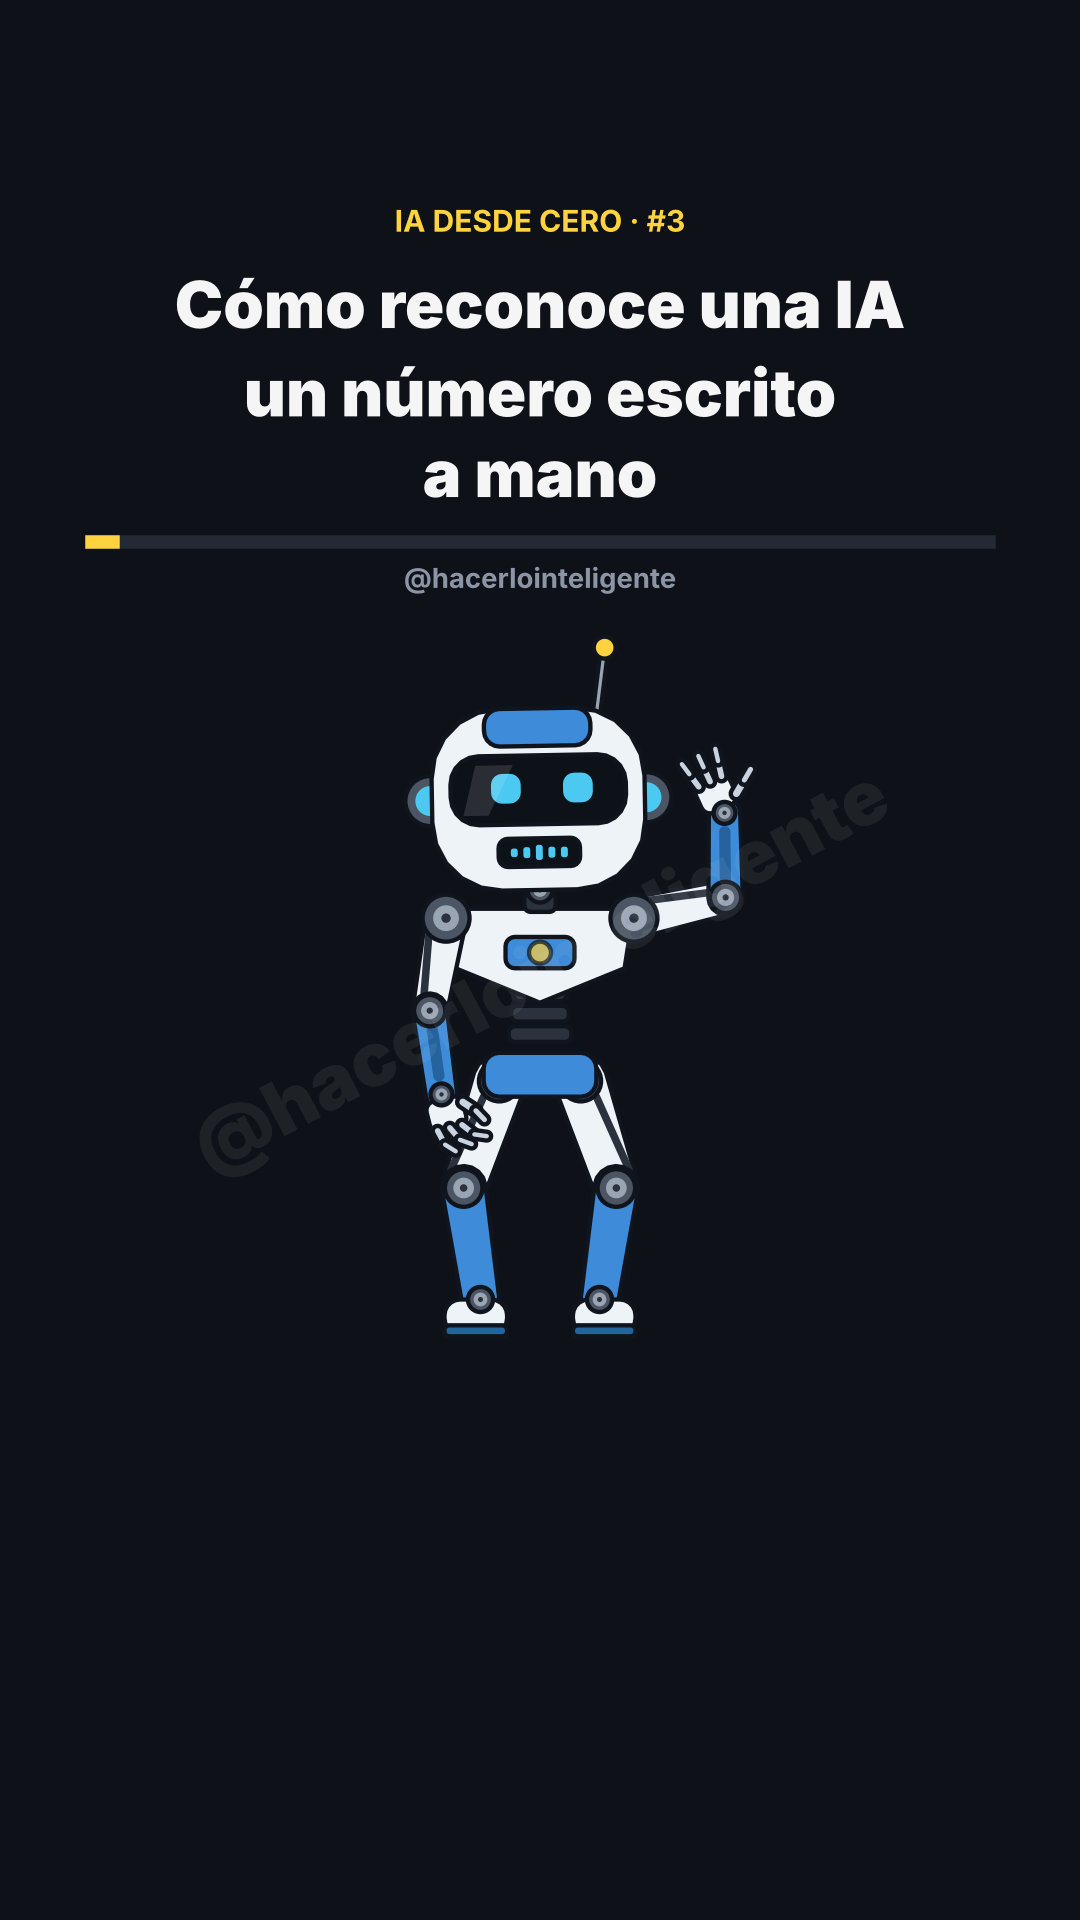
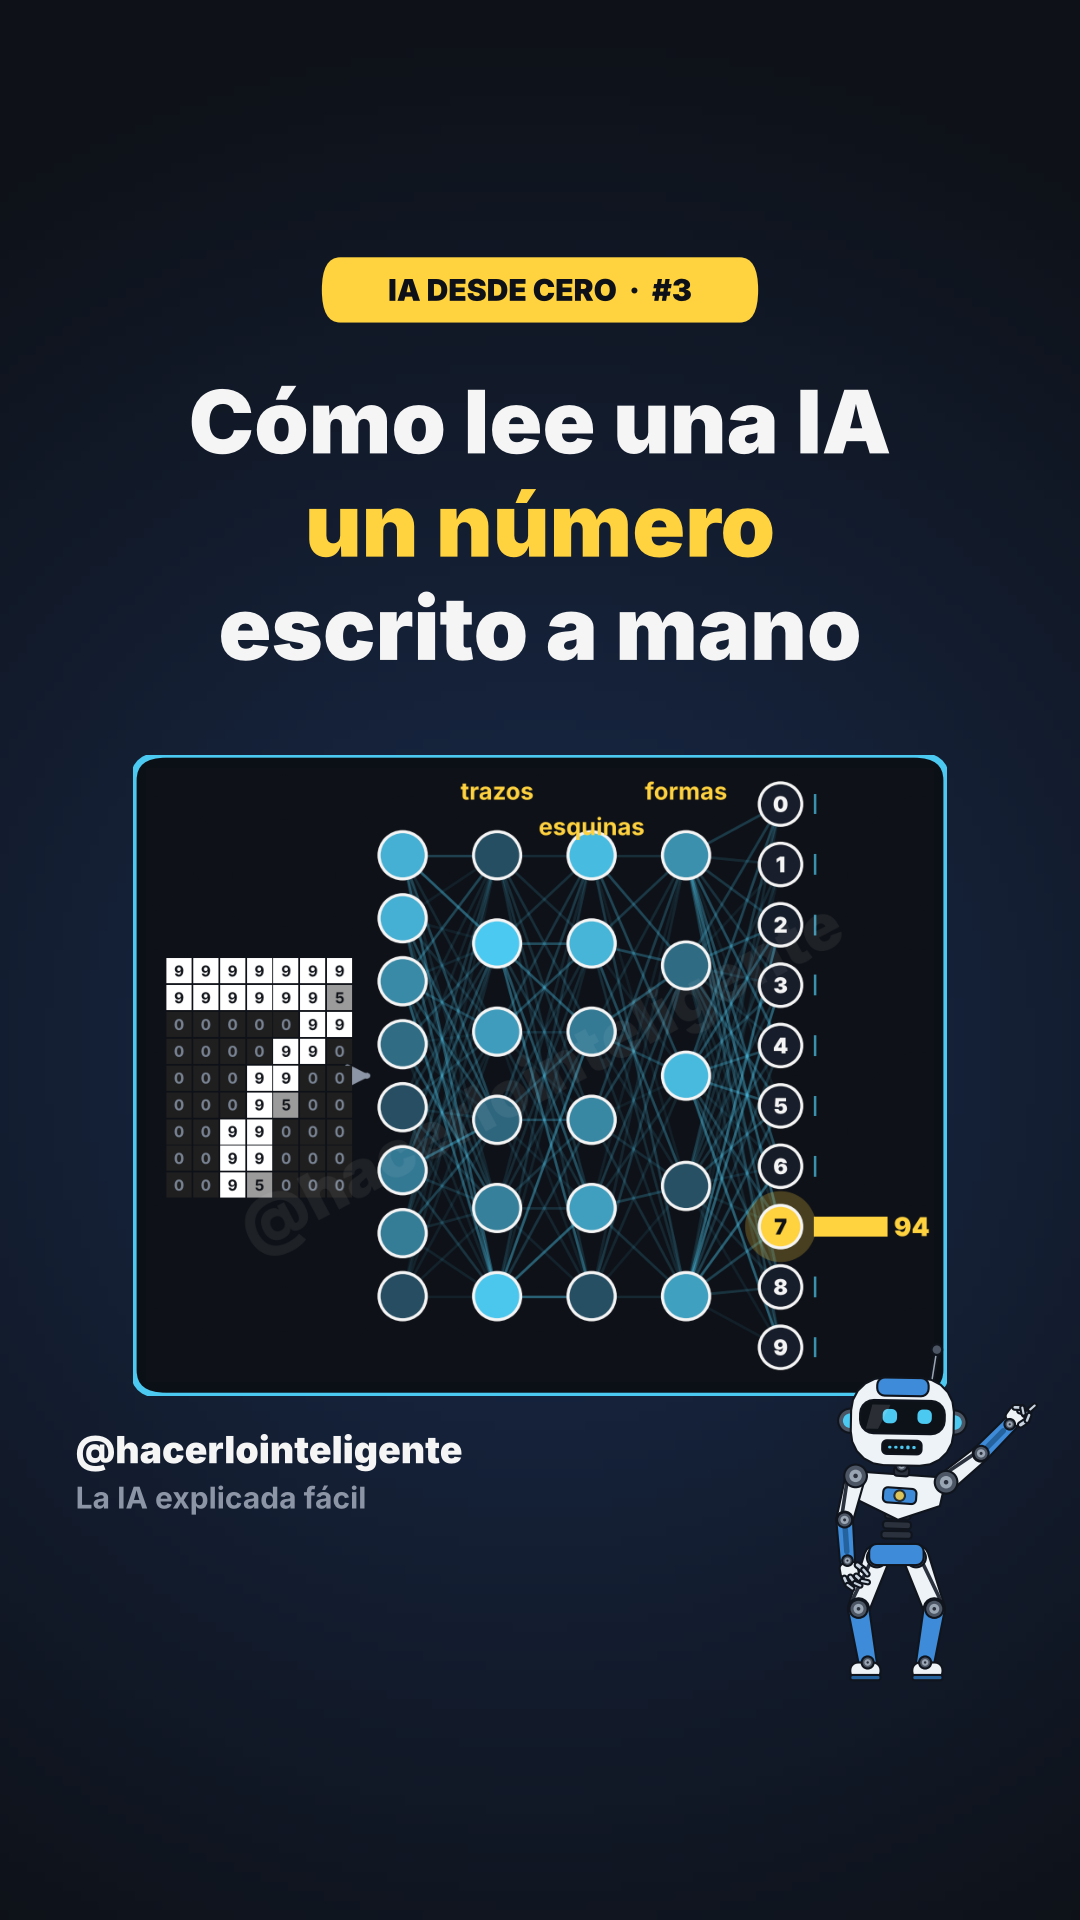
Rediseña las portadas: título grande, el algoritmo en acción y el robot
Claude-Session: https://claude.ai/code/session_01GPzezKcZXn3T3hSXmWk8t8

diff --git a/generador/portada.py b/generador/portada.py
@@ -1,0 +1,121 @@
+"""Portadas de los reels: título grande + el algoritmo en acción + el robot.
+
+Instagram muestra la portada en la cuadrícula del perfil recortada a 3:4 (franja central de
+1080×1440 de un vídeo 1080×1920), así que todo lo importante va dentro de esa franja.
+
+Uso: crear_portada(reel, draw, nombre, PORTADA) con
+  PORTADA = dict(titulo=["línea 1", "línea 2", ...], amarilla=índice de la línea destacada,
+                 t=segundo de la animación que se enseña, gesto="senala" | "piensa" | ...)
+"""
+import io
+
+import numpy as np
+import matplotlib.pyplot as plt
+from matplotlib.patches import FancyBboxPatch
+
+from base import ACCENT, BG, C1, CANAL, DPI, FG, H, MUTED, ROOT, W
+
+ALTO = H / W
+
+
+def _captura_animacion(reel, draw, t):
+    """Dibuja la animación del vídeo en el segundo t y devuelve solo su zona como imagen."""
+    rax = getattr(reel, "_rax", None)
+    if rax is not None:
+        for a in list(rax.patches):
+            a.remove()
+    reel.ax.set_visible(True)
+    draw(t)
+    buf = io.BytesIO()
+    reel.fig.savefig(buf, dpi=DPI, facecolor=BG, format="png")
+    buf.seek(0)
+    img = plt.imread(buf)
+    h, w = img.shape[:2]
+    x0, y0, aw, ah = reel.ax.get_position().bounds
+    return img[int(h * (1 - y0 - ah)):int(h * (1 - y0)), int(w * x0):int(w * (x0 + aw))]
+
+
+def crear_portada(reel, draw, nombre, conf):
+    from robot import Robot, pose_en
+
+    anim = _captura_animacion(reel, draw, conf["t"])
+
+    fig = plt.figure(figsize=(W / DPI, H / DPI), dpi=DPI, facecolor=BG)
+    # fondo con un halo de color detrás de la animación
+    fondo = fig.add_axes([0, 0, 1, 1], zorder=0)
+    fondo.axis("off")
+    yy, xx = np.mgrid[0:1:200j, 0:1:120j]
+    d = np.clip(np.hypot((xx - 0.5) * 0.56, yy - 0.45) / 0.55, 0, 1)[..., None]
+    c0, c1 = np.array([0.10, 0.17, 0.30]), np.array(matplotlib_rgb(BG))
+    fondo.imshow(c0 * (1 - d) + c1 * d, extent=(0, 1, 0, 1), origin="lower", aspect="auto")
+
+    # etiqueta de la serie
+    serie = f"{reel.serie}  ·  #{reel.numero}"
+    ancho = 0.06 + 0.0172 * len(serie)
+    fig.patches.append(FancyBboxPatch((0.5 - ancho / 2, 0.832), ancho, 0.034,
+                                      boxstyle="round,pad=0,rounding_size=0.017",
+                                      transform=fig.transFigure, fc=ACCENT, ec="none",
+                                      zorder=2))
+    fig.text(0.5, 0.849, serie, ha="center", va="center", size=12, weight="black",
+             color="#0E1117", zorder=3)
+
+    # título: una línea en amarillo para destacar la idea clave
+    lineas = conf["titulo"]
+    tam = 35 if max(len(x) for x in lineas) <= 15 else 31
+    paso = tam * 1.18 / 72 * DPI / H
+    y = 0.808
+    for i, linea in enumerate(lineas):
+        fig.text(0.5, y, linea, ha="center", va="top", size=tam, weight="black",
+                 color=ACCENT if i == conf.get("amarilla", -1) else FG, zorder=3)
+        y -= paso
+
+    # el algoritmo en acción, grande y enmarcado
+    alto_img = 0.32
+    ancho_img = alto_img * H / W * anim.shape[1] / anim.shape[0]
+    y_img = min(y - 0.012, 0.6) - alto_img
+    x_img = 0.5 - ancho_img / 2
+    marco = fig.add_axes([x_img - 0.012, y_img - 0.007, ancho_img + 0.024, alto_img + 0.014],
+                         zorder=1)
+    marco.axis("off")
+    marco.add_patch(FancyBboxPatch((0, 0), 1, 1, boxstyle="round,pad=0,rounding_size=0.04",
+                                   transform=marco.transAxes, fc="#0B0F16", ec=C1, lw=2.5))
+    img_ax = fig.add_axes([x_img, y_img, ancho_img, alto_img], zorder=2)
+    img_ax.imshow(anim)
+    img_ax.axis("off")
+
+    # el robot, asomando abajo a la derecha
+    rax = fig.add_axes([0, 0, 1, 1], zorder=4)
+    rax.set_xlim(0, 1)
+    rax.set_ylim(0, ALTO)
+    rax.set_aspect("equal")
+    rax.axis("off")
+    rax.patch.set_alpha(0)
+    gesto = conf.get("gesto", "saludo")
+    pose = pose_en(2.0, [(0.0, gesto, 0.01)])
+    # debajo de la imagen, señalándola, sin tapar el algoritmo
+    Robot(rax).dibujar(2.0, pose, cx=0.83, cy=(y_img - 0.075) * ALTO, s=0.14, boca=0.3)
+
+    fig.text(0.07, y_img - 0.035, CANAL, ha="left", va="center", size=15, weight="black",
+             color=FG, zorder=3)
+    fig.text(0.07, y_img - 0.06, "La IA explicada fácil", ha="left", va="center", size=12,
+             weight="bold", color=MUTED, zorder=3)
+
+    fig.savefig(ROOT / "portadas" / f"{nombre}.png", dpi=DPI, facecolor=BG)
+    plt.close(fig)
+
+
+def matplotlib_rgb(c):
+    from matplotlib.colors import to_rgb
+    return to_rgb(c)
+
+
+if __name__ == "__main__":  # regenera las portadas sin volver a renderizar los vídeos
+    import importlib
+    import sys
+
+    for mod in sys.argv[1:]:
+        m = importlib.import_module(mod)
+        nombre = mod[1:].split("_", 1)
+        nombre = f"{nombre[0]}_{nombre[1]}"
+        crear_portada(m.reel, m.draw, nombre, m.PORTADA)
+        print("OK portada", nombre)

diff --git a/generador/base.py b/generador/base.py
@@ -56,7 +56,7 @@ def wrap(text, width):
 
 class Reel:
     def __init__(self, numero, gancho, escenas, duracion, voz=None, efectos=(), musica=None,
-                 serie=SERIE):
+                 serie=SERIE, portada=None):
         """Los tiempos de escenas, voz y efectos son relativos al final de la intro.
 
         voz: {índice de escena: texto hablado o (texto, t_fin)}; "" = silencio;
@@ -70,6 +70,9 @@ class Reel:
         self.voz = voz or {}
         self.efectos = efectos
         self.musica = musica
+        self.serie = serie
+        self.numero = numero
+        self.portada = portada  # dict(titulo, amarilla, t, gesto); ver portada.py
         self.fig = plt.figure(figsize=(W / DPI, H / DPI), dpi=DPI, facecolor=BG)
 
         # Zona segura: Instagram tapa ~12 % arriba y ~20 % abajo con su interfaz.
@@ -159,6 +162,7 @@ class Reel:
         rax.set_aspect("equal")
         rax.axis("off")
         rax.patch.set_alpha(0)
+        self._rax = rax
         robot = Robot(rax)
         guion = self.robot_guion()
         salida = ROOT / "videos" / f"{nombre}.mp4"
@@ -200,9 +204,6 @@ class Reel:
                 self.barra.set_width(0.84 * ta / self.total)
                 return []
 
-            # portada: el robot presentando el gancho
-            update(int(1.2 * FPS))
-            self.fig.savefig(ROOT / "portadas" / f"{nombre}.png", dpi=DPI, facecolor=BG)
 
             anim = FuncAnimation(self.fig, update, frames=int(self.total * FPS), blit=False)
             writer = FFMpegWriter(fps=FPS, codec="libx264", bitrate=-1, extra_args=[
@@ -214,4 +215,7 @@ class Reel:
                             "-c:v", "copy", "-af", "loudnorm=I=-14:TP=-1.5:LRA=11",
                             "-c:a", "aac", "-b:a", "192k", "-ar", "44100", "-shortest",
                             "-movflags", "+faststart", str(salida)], check=True)
+        if self.portada:
+            from portada import crear_portada
+            crear_portada(self, draw, nombre, self.portada)
         print("OK", salida)

diff --git a/generador/v03_sobreajuste.py b/generador/v03_sobreajuste.py
@@ -41,9 +41,12 @@ VOZ = {
 EFECTOS = [(t0, "whoosh") for t0, *_r in FASES] + [(18.2, "pop")] \
     + [(19.0 + 0.25 * k, "error") for k in range(len(x_test))]
 
+PORTADA = dict(titulo=["Un 10 en casa,", "un 3 en el examen"], amarilla=1, t=21.0, gesto="piensa")
+
 reel = Reel(3, "Tu IA saca un 10\nen casa y un 3\nen el examen", ESCENAS, 29.5,
             voz=VOZ, efectos=EFECTOS, musica={"bpm": 90,
-            "progresion": ((52, 55, 59), (48, 52, 55), (55, 59, 62), (50, 54, 57))})
+            "progresion": ((52, 55, 59), (48, 52, 55), (55, 59, 62), (50, 54, 57))},
+            portada=PORTADA)
 ax = reel.ax
 ax.set_xlim(-0.03, 1.03)
 ax.set_ylim(-2.6, 2.6)

diff --git a/generador/v02_kmeans.py b/generador/v02_kmeans.py
@@ -50,9 +50,12 @@ VOZ = {
 EFECTOS = [(3.2, "pop")] + [(T0_ITER + i * T_ITER + 1.5, "whoosh") for i in range(3)] \
     + [(18.4, "pop")]
 
+PORTADA = dict(titulo=["Nadie le dijo", "qué buscar…", "y lo encontró"], amarilla=2, t=18.5, gesto="piensa")
+
 reel = Reel(2, "Nadie le dijo qué buscar… y lo encontró", ESCENAS, 30.0,
             voz=VOZ, efectos=EFECTOS, musica={"bpm": 104,
-            "progresion": ((50, 53, 57), (46, 50, 53), (53, 57, 60), (48, 52, 55))})
+            "progresion": ((50, 53, 57), (46, 50, 53), (53, 57, 60), (48, 52, 55))},
+            portada=PORTADA)
 ax = reel.ax
 ax.set_xlim(-5, 5)
 ax.set_ylim(-4.6, 4.2)

diff --git a/generador/v06_red_neuronal.py b/generador/v06_red_neuronal.py
@@ -77,8 +77,11 @@ VOZ = {
 EFECTOS = ([(2.0, "pop"), (4.6, "whoosh")] + [(tc, "pop") for tc in T_CAPA]
            + [(18.2, "pop")] + [(T_CICLO0 + k * T_CICLO_PASO, "pop") for k in range(len(CICLO))])
 
+PORTADA = dict(titulo=["Cómo lee una IA", "un número", "escrito a mano"], amarilla=1, t=19.5, gesto="senala")
+
 reel = Reel(3, "Cómo reconoce una IA\nun número escrito\na mano", ESCENAS, 31.2, voz=VOZ,
-            efectos=EFECTOS, serie=SERIE_CERO, musica={"bpm": 100})
+            efectos=EFECTOS, serie=SERIE_CERO, musica={"bpm": 100},
+            portada=PORTADA)
 ax = reel.ax
 ax.set_xlim(0, 10)
 ax.set_ylim(0, 7.8)

diff --git a/generador/v07_chatgpt.py b/generador/v07_chatgpt.py
@@ -43,8 +43,11 @@ EFECTOS = ([(T_TECLEO[0] + k * 0.5, "pop") for k in range(len(PROMPT))]
            + [(T_RAPIDO0 + k * T_RAPIDO_PASO * 2, "pop") for k in range(len(EXTRA) // 2)]
            + [(22.9, "whoosh")])
 
+PORTADA = dict(titulo=["Así escribe", "ChatGPT"], amarilla=1, t=13.4, gesto="explica")
+
 reel = Reel(4, "ChatGPT escribe\nadivinando palabra\na palabra", ESCENAS, 31.5, voz=VOZ,
-            efectos=EFECTOS, serie=SERIE_CERO, musica={"bpm": 94})
+            efectos=EFECTOS, serie=SERIE_CERO, musica={"bpm": 94},
+            portada=PORTADA)
 ax = reel.ax
 ax.set_xlim(0, 10)
 ax.set_ylim(0, 7.8)

diff --git a/generador/v01_descenso_gradiente.py b/generador/v01_descenso_gradiente.py
@@ -45,8 +45,11 @@ EFECTOS = ([(9.4 + k * T_PASO, "pop") for k in range(len(BUENOS) - 1)]
            + [(16.4 + k * T_PASO, "error") for k in range(len(MALOS) - 1)]
            + [(21.0, "whoosh")])
 
+PORTADA = dict(titulo=["Una IA no piensa.", "Hace ESTO", "millones de veces"], amarilla=1, t=13.0, gesto="senala")
+
 reel = Reel(1, "Una IA no piensa.\nHace ESTO millones\nde veces", ESCENAS, 29.5,
-            voz=VOZ, efectos=EFECTOS)
+            voz=VOZ, efectos=EFECTOS,
+            portada=PORTADA)
 ax = reel.ax
 xs = np.linspace(-4.2, 6.2, 400)
 ax.plot(xs, f(xs), color=C1, lw=4, solid_capstyle="round")

diff --git a/generador/v05_neurona.py b/generador/v05_neurona.py
@@ -35,8 +35,11 @@ EFECTOS = ([(0.4 + 0.5 * k, "pop") for k in range(3)] + [(1.9, "pop")]
            + [(9.0, "pop"), (10.4, "whoosh"), (14.0, "pop"), (17.8, "pop"), (18.6, "whoosh"),
               (19.8, "error")])
 
+PORTADA = dict(titulo=["Así decide", "una neurona", "artificial"], amarilla=1, t=15.0, gesto="pulgar")
+
 reel = Reel(2, "Así decide una\nneurona artificial", ESCENAS, 31.5, voz=VOZ, efectos=EFECTOS,
-            serie=SERIE_CERO, musica={"bpm": 92})
+            serie=SERIE_CERO, musica={"bpm": 92},
+            portada=PORTADA)
 ax = reel.ax
 ax.set_xlim(0, 10)
 ax.set_ylim(0, 7.8)

diff --git a/generador/v04_programar_vs_aprender.py b/generador/v04_programar_vs_aprender.py
@@ -57,8 +57,11 @@ EFECTOS = ([(0.6, "pop"), (4.4, "pop"), (5.4, "error")]
            + [(T_APRENDE0 + 0.3 + k * T_PASO, "whoosh") for k in range(len(fronteras) - 1)]
            + [(18.4, "pop"), (19.6, "pop")])
 
+PORTADA = dict(titulo=["La IA no", "se programa.", "Se ENSEÑA."], amarilla=2, t=20.5, gesto="senala")
+
 reel = Reel(1, "La IA no se programa.\nSe ENSEÑA.", ESCENAS, 31.0, voz=VOZ, efectos=EFECTOS,
-            serie=SERIE_CERO, musica={"bpm": 98})
+            serie=SERIE_CERO, musica={"bpm": 98},
+            portada=PORTADA)
 ax = reel.ax
 ax.set_xlim(0, 10)
 ax.set_ylim(0, 7.8)

diff --git a/CLAUDE.md b/CLAUDE.md
@@ -19,6 +19,7 @@ generador/
   robot.py       Robot presentador articulado (esqueleto + gestos tipo servo).
   audio.py       Voz (Piper TTS), música sintetizada, efectos y mezcla con "ducking".
   icono.py       Genera la foto de perfil (perfil/icono_*.png).
+  portada.py     Genera las portadas (título + captura del algoritmo + robot).
   v01_…v07_…py   Un archivo por vídeo: escenas, voz, efectos y función draw(t).
   voz/           Modelo de voz (NO se sube a git; ver "Instalación").
 videos/          MP4 finales (1080×1920, 30 fps, AAC). portadas/: portada de cada vídeo.
@@ -91,6 +92,11 @@ KNN, árbol de decisión, random forest).
 4. Render: `cd generador && python3 vNN_nombre.py` (5–10 min por vídeo; lanzar en
    segundo plano y en paralelo). Genera `videos/NN_nombre.mp4` y `portadas/NN_nombre.png`.
 5. Añade su texto a `PUBLICAR.md` y la fila al `README.md`.
+6. Portada: cada vídeo define `PORTADA = dict(titulo=[líneas], amarilla=i, t=segundo de la
+   animación, gesto=pose del robot)` y la pasa con `portada=PORTADA`. El usuario quiere que
+   en la portada **se vea el algoritmo**. Se genera al final del render, o sin renderizar con
+   `python3 portada.py v01_descenso_gradiente v02_kmeans …`. Todo lo importante debe quedar
+   en la franja 3:4 central (y de 0.125 a 0.875), que es lo que enseña la cuadrícula del perfil.
 
 ## Instalación (entorno nuevo)
 
